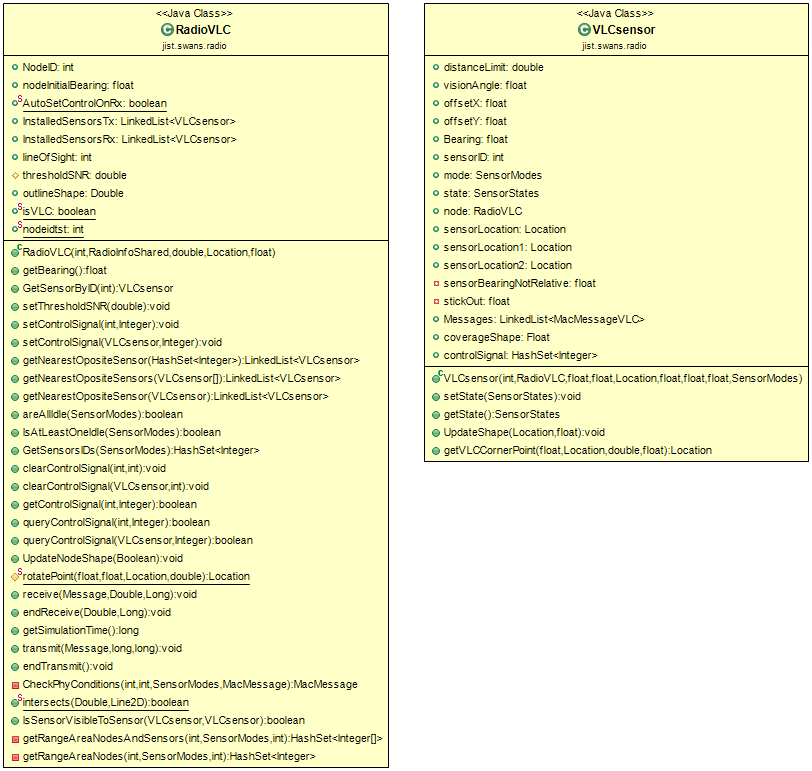
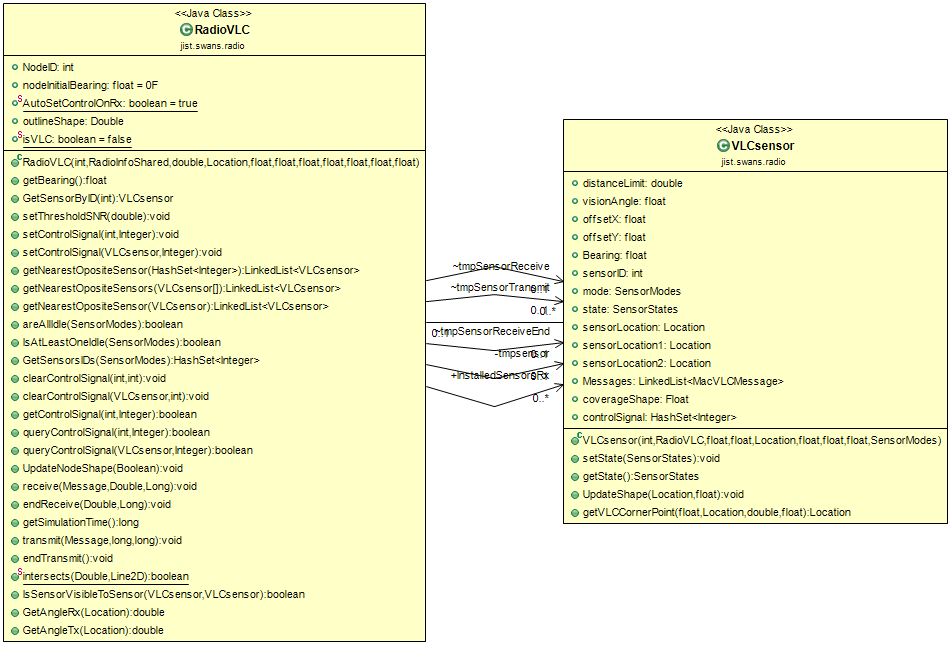
bnvcx

diff --git a/r9adar2/swanspp/src/jist/swans/field/PathLoss.java b/r9adar2/swanspp/src/jist/swans/field/PathLoss.java
@@ -71,8 +71,8 @@ public interface PathLoss
 		{			
 			double m= 2;
 			double n= 1.5;
-//			double psiC= JistExperiment.getJistExperiment().getVLCvisionAngleRx();
-			double psiC= ((RadioVLC)dstRadio.getUnique().GetRadio()).GetAngleRx(srcLocation);//  JistExperiment.getJistExperiment().getVLCvisionAngleRx();
+			
+			double psiC= ((RadioVLC)dstRadio.getUnique().GetRadio()).GetAngleRx(srcLocation);
 			double txPwr= srcRadio.getShared().getPower();
 			double A = 0.0001;
 			double Dd= srcLocation.distance(dstLocation);
@@ -81,39 +81,18 @@ public interface PathLoss
 			double H0 = 0;
 			double rxPwr;
 
-			//	((RadioVLC)srcRadio)getClass().g
-
-
-			//arctangens kuta je koeficijent smjera pravca.
 			
 			fiAngle = Math.toDegrees(Math.atan( (srcLocation.getY()-dstLocation.getY())/(srcLocation.getX()-dstLocation.getX())));
-		//	System.out.println(" S fiangle = " +fiAngle);
-			//psiAngle = fiAngle- (fiAngle + ((RadioVLC) dstRadio.getUnique().GetRadio()).GetBearing());  // Field.getRadioData(dstRadio.getUnique().getID()).getMobilityInfo().getBearingAsAngle();
 			psiAngle = ( 180- fiAngle- ((RadioVLC) dstRadio.getUnique().GetRadio()).getBearing() - 180);
-			
-		/*	if(psiAngle != 0)
-			{
-	//			psiAngle = 360%psiAngle;
-			}*/
+
 			fiAngle = fiAngle+ ((RadioVLC) srcRadio.getUnique().GetRadio()).getBearing();
 			
 			psiAngle = Math.abs(psiAngle);
 			fiAngle = Math.abs(fiAngle);
-		/*	if(fiAngle != 0)
-			{
-		//		fiAngle = 360%fiAngle;
-			}*/
-		/*	if(srcRadio.getUnique().getID() != dstRadio.getUnique().getID())
-			{
-				System.out.println(srcRadio.getUnique().getID() +  " --> " +dstRadio.getUnique().getID()+" fiangle = " +fiAngle + " psiangle = "+ psiAngle);
-			}*/
 
 			if (psiAngle>psiC/2)
 			{
 
-				//Za�to je ova provjera tu, nije li to neto�no
-				//ulazni kut je kut izme�u normale i ulazne zrake
-				//psiC je vision angle. pretpostavljam da bi trebalo biti psiangle > psic/2
 				H0 = 0;
 			}
 			else
@@ -121,22 +100,6 @@ public interface PathLoss
 				H0 = (((m+1)*A)/(2*Math.PI*Dd*Dd)) * ( Math.pow(Math.cos(fiAngle),m) * Ts(psiAngle) * g(psiAngle, psiC, n)* Math.cos(psiAngle));
 			}
 			return H0 * txPwr;
-			//double vrijhe =Util.fromDB(-57);
-			//double vrije=H0/(Ts(psiAngle)*g(psiAngle, psiC,n));// rxPwr;
-
-			//	System.out.println("PL: db:" + vrijhe+ " H0: "+ H0 + " fin: "+ vrije);
-			//return vrije;
-			/*
-			double dist = srcLocation.distance(dstLocation);
-
-
-			double pathloss = - srcRadio.getShared().getGain() - dstRadio.getShared().getGain();
-			double valueForLog = 4.0 * Math.PI * dist / srcRadio.getShared().getWaveLength();
-			if (valueForLog > 1.0)
-			{
-				pathloss += Util.log((float)valueForLog) / Constants.log10 * 20.0;
-			}
-			return pathloss;*/
 		}
 		private double Ts(double psiAngle)
 		{

diff --git a/r9adar2/swanspp/src/jist/swans/radio/VLCsensor.java b/r9adar2/swanspp/src/jist/swans/radio/VLCsensor.java
@@ -50,7 +50,7 @@ public class VLCsensor
 	public Location sensorLocation1;//top
 	public Location sensorLocation2;//bottom
 	private float sensorBearingNotRelative;
-	private float stickOut = 0.001F; //1cm
+	private float stickOut = 0.00001F; //1cm
 //	public int signalsRx;
 	public LinkedList<MacVLCMessage> Messages = new LinkedList<MacVLCMessage>();
 //	public long CurrentMessageEnd;
@@ -107,27 +107,17 @@ public class VLCsensor
 		 * http://djw.cs.washington.edu/papers/mimo_for_dummies.pdf
 		 * */
 		this.node = node;
-		//this.signalsRx = 0;
 		this.distanceLimit = distancelimit; 
 		this.visionAngle = visionAngle;
 		this.offsetX = offsetX;
 		this.offsetY = offsetY;
-		if(this.offsetX >0)
-		{
-			this.offsetX += stickOut;
-		}
-		else
-		{
-			this.offsetX -= stickOut;
-		}
-		if(this.offsetY >0)
-		{
-			this.offsetY += stickOut;
-		}
-		else
-		{
-			this.offsetY -= stickOut;
-		}
+		
+	
+		float dAB  = (float) Point.distance(this.offsetX, this.offsetY, 0, 0);
+		
+		this.offsetX = (1* this.offsetX * (this.stickOut + dAB)) / dAB;
+		this.offsetY = (1* this.offsetY * (this.stickOut + dAB)) / dAB;
+		
 		this.Bearing = bearing;
 		this.sensorID = sensorID;
 		this.mode = mode;

diff --git a/r9adar2/swanspp/src/driver/GenericDriver.java b/r9adar2/swanspp/src/driver/GenericDriver.java
@@ -140,7 +140,7 @@ public class GenericDriver {
 	 */
 	public static Vizbt btviz = null;
 	@SuppressWarnings("unchecked")
-	public static void addNode(JistExperiment je, int i, Vector nodes,				//T-ODO: START HERE
+	public static void addNode(JistExperiment je, int i, Vector nodes,				
 			Field field, Placement place, RadioInfo.RadioInfoShared radioInfo,
 			Mapper protMap, PacketLoss inLoss, PacketLoss outLoss,
 			Mobility mobility, VisualizerInterface v) {

diff --git a/r9adar2/swanspp/src/jist/swans/radio/Vizbt.java b/r9adar2/swanspp/src/jist/swans/radio/Vizbt.java
@@ -78,6 +78,7 @@ public class Vizbt {
 	}
 	public void DrawShape(Shape shp, Color clr, float StrokeWidth)
 	{
+		
 		//StrokeWidth = 4;
 		//((Graphics2D)getGraph()).setStroke(new BasicStroke());	
 		((Graphics2D)getGraph()).setStroke(new BasicStroke(StrokeWidth, BasicStroke.CAP_BUTT, BasicStroke.JOIN_BEVEL, 0, new float[] { 3, 8 }, 0));

diff --git a/r9adar2/swanspp/src/jist/swans/mac/MacVLCMessage.java b/r9adar2/swanspp/src/jist/swans/mac/MacVLCMessage.java
@@ -35,6 +35,9 @@ import jist.swans.radio.VLCsensor;
 public  class MacVLCMessage extends MacMessage
 {
 	
+	//TODO: vidjeti treba li trackati i start i end time u poruci za pojedine cvorove
+	//Ne treba jer je cvor id vidljiv iz objekta klase senzor.
+	
 	
 	
 	//sensor control
